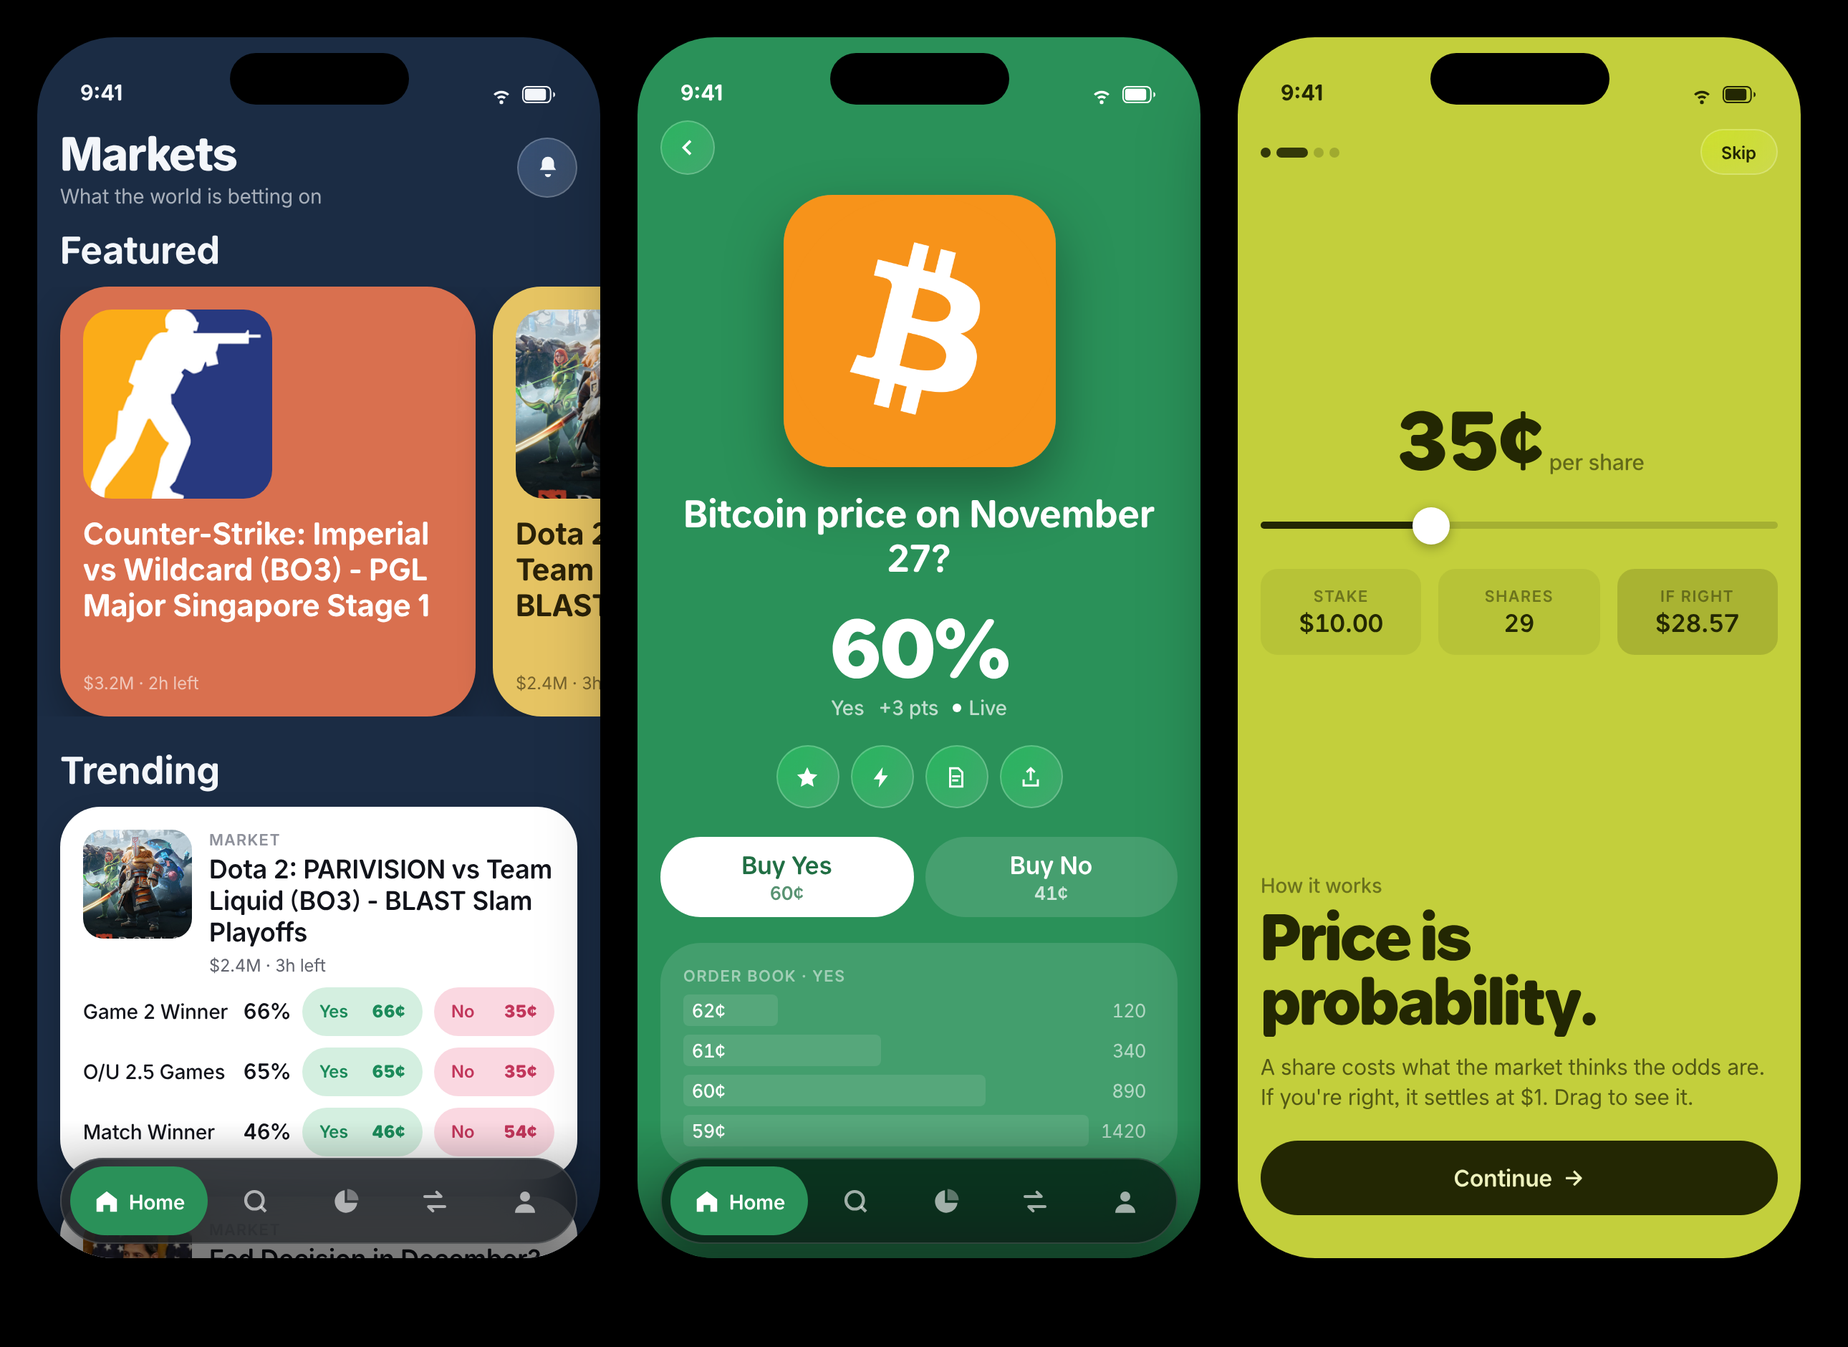
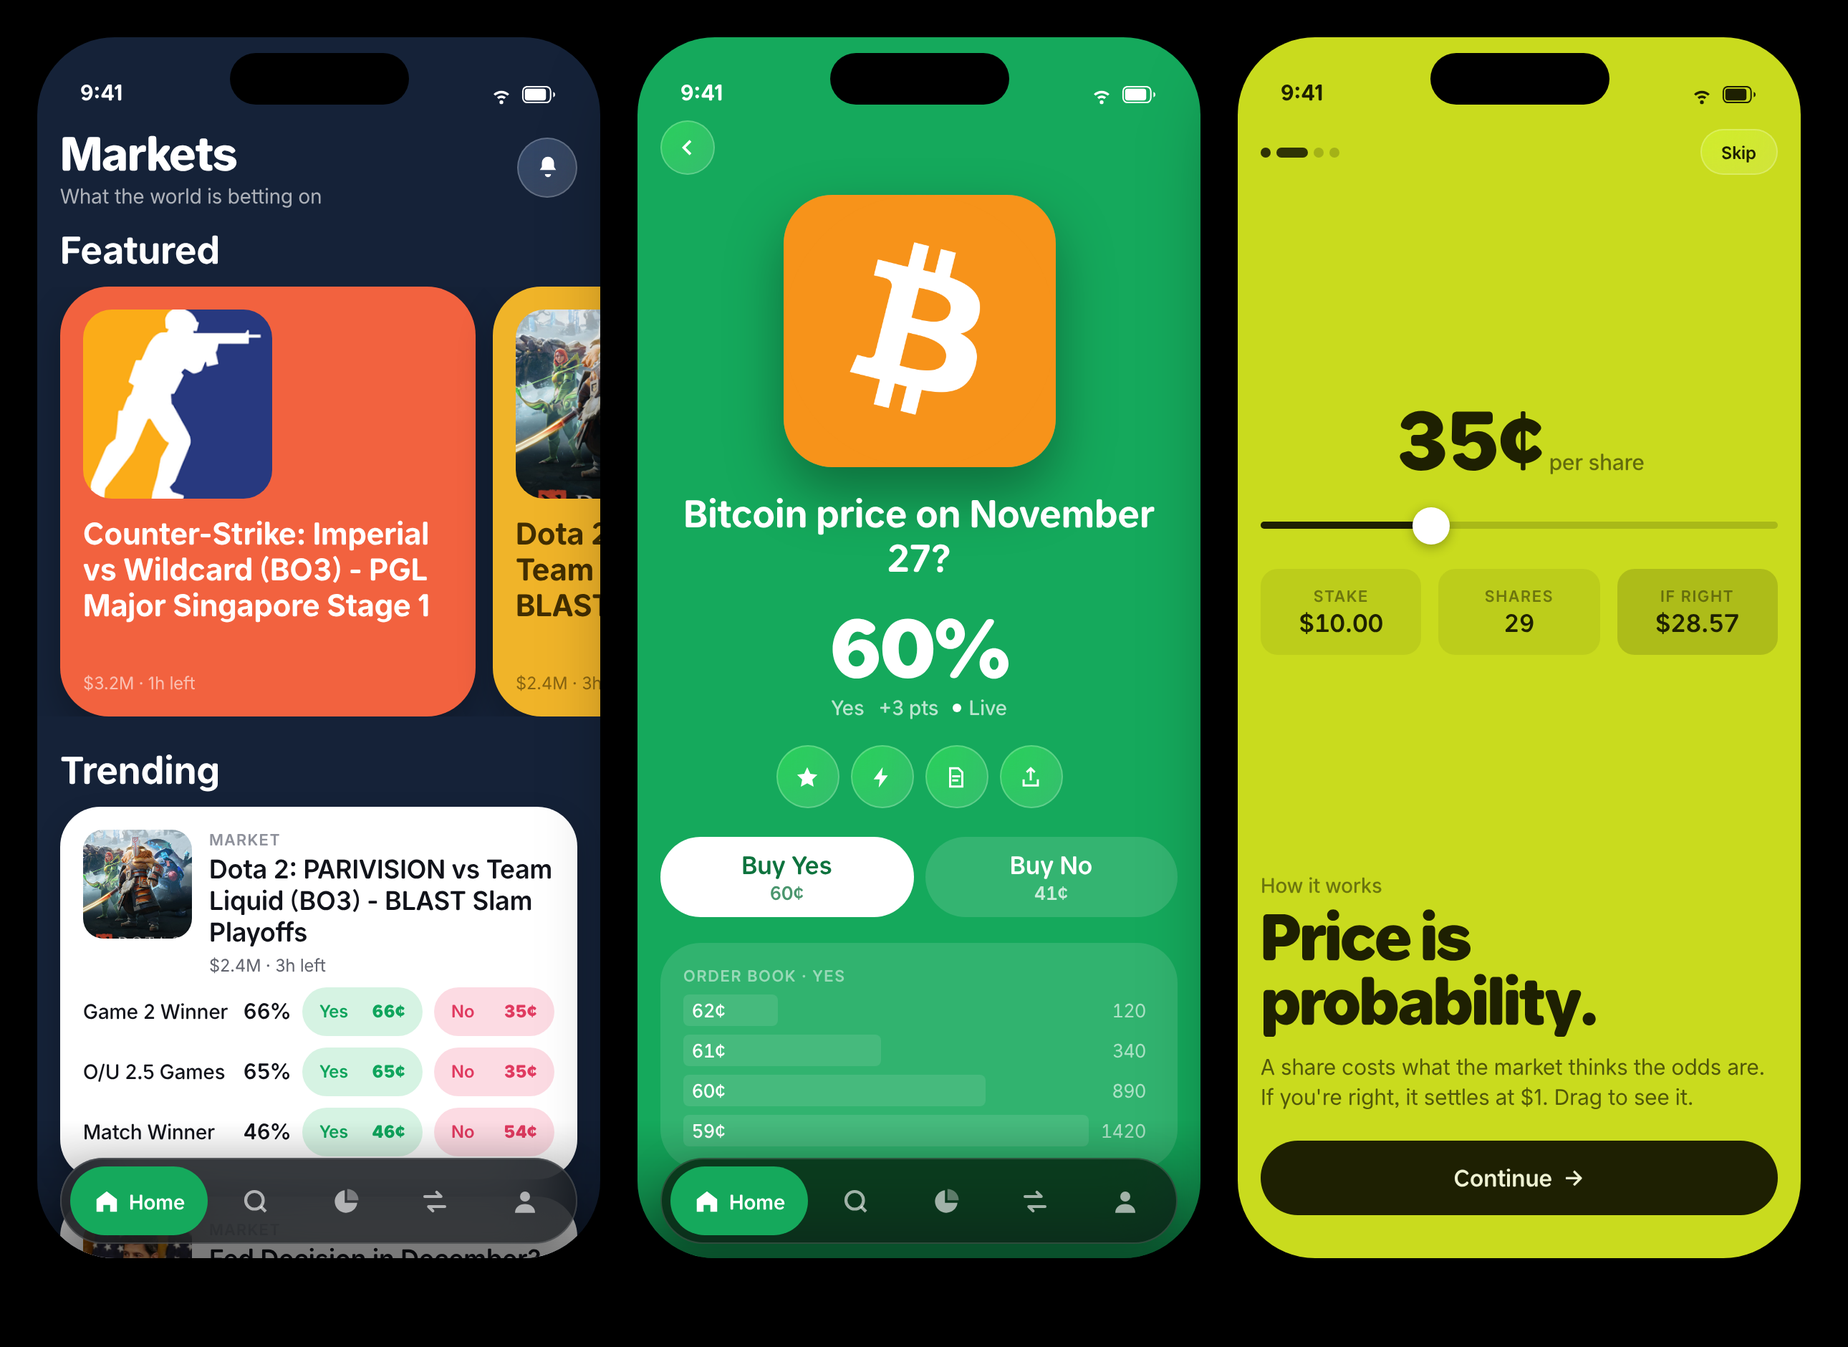
Clean the palette: saturated hues with the grey taken out
Three passes missed in three directions — pale tints washed out at
full-screen size, fully saturated ones read as electric, and desaturating
those to fix it made them dirty. Adding grey to a hue does not refine it.

Rendering the three candidates side by side as real cards settled it
rather than another round of argument. The hues stay pure now and only
lightness varies: every variant is generated from one base colour per theme
by shifting lightness in HLS, so the hue is identical across light and dark
and across the screen and card weights. `ink` is set by hand, because that
formula applied to an already-dark colour collapses it to near black with
no separation between the field and the cards on it.

The semantic Yes/No colours carried the same grey, which turned muddy
wherever they were drawn at partial opacity over a coloured field — most
visibly in the order book. Cleaned to match, and the depth bars are drawn
near-opaque so they read as themselves rather than as a mix with whatever
is behind them.

Supporting/render/palettes.js keeps the comparison runnable.

Claude-Session: https://claude.ai/code/session_01JJ56dMrdQg8BxcW8BaqA4A

diff --git a/PulseCore/Sources/PulseCore/Design/Palette.swift b/PulseCore/Sources/PulseCore/Design/Palette.swift
@@ -70,14 +70,16 @@ public enum Palette {
     // Yes and No keep the same hues everywhere — list rows, charts, the trade
     // sheet, the order book — so the mapping is learned once.
 
-    /// "Yes" — a grounded green, not a neon one.
-    public static let yes = Color.adaptive(light: "1B8A5A", dark: "4BC68E")
-    public static let yesSurface = Color.adaptive(light: "D4EFE0", dark: "16352A")
+    /// "Yes" — clean green, matched to the theme palette. The previous
+    /// value carried grey, which turned muddy wherever it was drawn at
+    /// partial opacity over a coloured field.
+    public static let yes = Color.adaptive(light: "0FA45C", dark: "3DD98B")
+    public static let yesSurface = Color.adaptive(light: "D6F3E3", dark: "0E3A26")
 
-    /// "No" — a warm rose that reads as the opposite of yes without being an
-    /// alarm colour. Pure red is reserved for destructive actions.
-    public static let no = Color.adaptive(light: "C2365B", dark: "F2869F")
-    public static let noSurface = Color.adaptive(light: "FAD8E1", dark: "3B2028")
+    /// "No" — a clean rose. Reads as the opposite of yes without being an
+    /// alarm colour; pure red stays reserved for destructive actions.
+    public static let no = Color.adaptive(light: "E03A60", dark: "FF7D9B")
+    public static let noSurface = Color.adaptive(light: "FCDBE3", dark: "401A26")
 
     /// Price movement. Matches yes/no so a rising probability and a yes
     /// position read as the same direction.
@@ -139,80 +141,84 @@ public enum Palette {
 
     /// The market themes.
     ///
-    /// Solid and muted, not pastel and not neon. Two earlier passes missed in
-    /// both directions: pale tints washed out at full-screen size, then fully
-    /// saturated hues read as electric and fought each other in a feed.
+    /// Clean saturated hues. Three earlier passes missed in three different
+    /// directions: pale tints washed out at full-screen size, fully
+    /// saturated ones read as electric, and desaturating those to fix it
+    /// just made them dirty — adding grey to a hue does not refine it.
     ///
-    /// These sit at roughly one perceptual weight — mid lightness, mid chroma
-    /// — which is what lets eight of them feel like one family rather than a
-    /// swatch book. Each is flat: no gradients anywhere in the palette.
+    /// These keep the hue pure and vary only lightness. Every variant below
+    /// is generated from one base colour per theme by shifting lightness in
+    /// HLS, so the hue is identical across light and dark and across the
+    /// screen and card weights. `ink` is set by hand, because the same
+    /// formula applied to an already-dark colour collapses it to near black
+    /// with no separation between the field and the cards on it.
     ///
-    /// `onField` is white on the deeper hues and near-black on lime and
-    /// butter, chosen per theme so contrast is deliberate rather than derived.
+    /// `onField` is white on the deep hues and a dark tint of the hue itself
+    /// on lime and butter, picked by luma rather than by eye.
     public static let themes: [Theme] = [
         Theme(
             id: "ink",
-            screen: .adaptive(light: "1B2C44", dark: "111C2B"),
-            field: .adaptive(light: "27405F", dark: "1B2C44"),
-            onField: .adaptive(light: "F3F6FA", dark: "F3F6FA"),
-            control: .adaptive(light: "F3F6FA", dark: "F3F6FA"),
-            onControl: .adaptive(light: "1B2C44", dark: "111C2B")
+            screen: .adaptive(light: "152238", dark: "0C1420"),
+            field: .adaptive(light: "1E3252", dark: "16233A"),
+            onField: .adaptive(light: "FFFFFF", dark: "F2F5FA"),
+            control: .adaptive(light: "FFFFFF", dark: "F2F5FA"),
+            onControl: .adaptive(light: "152238", dark: "0C1420")
         ),
         Theme(
             id: "green",
-            screen: .adaptive(light: "2A9159", dark: "1B6039"),
-            field: .adaptive(light: "34A567", dark: "217546"),
-            onField: .adaptive(light: "FFFFFF", dark: "E9F6EE"),
-            control: .adaptive(light: "FFFFFF", dark: "E9F6EE"),
-            onControl: .adaptive(light: "216F44", dark: "1B6039")
+            screen: .adaptive(light: "15A95C", dark: "0D5530"),
+            field: .adaptive(light: "18C46B", dark: "11703E"),
+            onField: .adaptive(light: "FFFFFF", dark: "A6E4C4"),
+            control: .adaptive(light: "FFFFFF", dark: "A6E4C4"),
+            onControl: .adaptive(light: "0E733E", dark: "0D5530")
         ),
         Theme(
             id: "lime",
-            screen: .adaptive(light: "C3CF3C", dark: "70791F"),
-            field: .adaptive(light: "D0DB5C", dark: "869029"),
-            onField: .adaptive(light: "232703", dark: "F3F7D4"),
-            control: .adaptive(light: "232703", dark: "F3F7D4"),
-            onControl: .adaptive(light: "EEF2BE", dark: "232703")
+            screen: .adaptive(light: "C9DB1E", dark: "7C8716"),
+            field: .adaptive(light: "D3E334", dark: "95A11A"),
+            onField: .adaptive(light: "1E2002", dark: "EEF1D4"),
+            control: .adaptive(light: "1E2002", dark: "EEF1D4"),
+            onControl: .adaptive(light: "EFF2D3", dark: "1E2002")
         ),
         Theme(
             id: "sky",
-            screen: .adaptive(light: "4C8FCB", dark: "2A5A86"),
-            field: .adaptive(light: "61A0D8", dark: "356E9F"),
-            onField: .adaptive(light: "FFFFFF", dark: "E8F1F9"),
-            control: .adaptive(light: "FFFFFF", dark: "E8F1F9"),
-            onControl: .adaptive(light: "2F6A9F", dark: "2A5A86")
+            screen: .adaptive(light: "2E7BE8", dark: "1651A4"),
+            field: .adaptive(light: "4A8CEB", dark: "1A5EBF"),
+            onField: .adaptive(light: "FFFFFF", dark: "E9F0F9"),
+            control: .adaptive(light: "FFFFFF", dark: "E9F0F9"),
+            onControl: .adaptive(light: "155DC3", dark: "1651A4")
         ),
         Theme(
             id: "lilac",
-            screen: .adaptive(light: "8073CE", dark: "4F4590"),
-            field: .adaptive(light: "9186D8", dark: "5F54A6"),
-            onField: .adaptive(light: "FFFFFF", dark: "EFEDFA"),
-            control: .adaptive(light: "FFFFFF", dark: "EFEDFA"),
-            onControl: .adaptive(light: "584CA3", dark: "4F4590")
+            screen: .adaptive(light: "7C5CE0", dark: "4B28B8"),
+            field: .adaptive(light: "9176E5", dark: "552ED1"),
+            onField: .adaptive(light: "FFFFFF", dark: "F6F4FB"),
+            control: .adaptive(light: "FFFFFF", dark: "F6F4FB"),
+            onControl: .adaptive(light: "5329D6", dark: "4B28B8")
         ),
         Theme(
             id: "coral",
-            screen: .adaptive(light: "D9704F", dark: "8E4330"),
-            field: .adaptive(light: "E28468", dark: "A5523C"),
-            onField: .adaptive(light: "FFFFFF", dark: "FBEAE4"),
-            control: .adaptive(light: "FFFFFF", dark: "FBEAE4"),
-            onControl: .adaptive(light: "A8523A", dark: "8E4330")
+            screen: .adaptive(light: "F2623F", dark: "C33512"),
+            field: .adaptive(light: "F4795C", dark: "DF3C14"),
+            onField: .adaptive(light: "FFFFFF", dark: "FCF4F3"),
+            control: .adaptive(light: "FFFFFF", dark: "FCF4F3"),
+            onControl: .adaptive(light: "E4390F", dark: "C33512")
         ),
         Theme(
             id: "butter",
-            screen: .adaptive(light: "E6C463", dark: "7D682A"),
-            field: .adaptive(light: "EDD183", dark: "937C36"),
-            onField: .adaptive(light: "2B2208", dark: "FBF3D9"),
-            control: .adaptive(light: "2B2208", dark: "FBF3D9"),
-            onControl: .adaptive(light: "F6EDCB", dark: "2B2208")
+            screen: .adaptive(light: "F0B429", dark: "AD7E10"),
+            field: .adaptive(light: "F2BE46", dark: "C99213"),
+            onField: .adaptive(light: "422E01", dark: "FAF6EB"),
+            control: .adaptive(light: "422E01", dark: "FAF6EB"),
+            onControl: .adaptive(light: "FBF6EA", dark: "422E01")
         ),
         Theme(
             id: "teal",
-            screen: .adaptive(light: "35959C", dark: "1D5F64"),
-            field: .adaptive(light: "43A8AF", dark: "27747A"),
-            onField: .adaptive(light: "FFFFFF", dark: "E3F3F4"),
-            control: .adaptive(light: "FFFFFF", dark: "E3F3F4"),
-            onControl: .adaptive(light: "277177", dark: "1D5F64")
+            screen: .adaptive(light: "10A3A8", dark: "0A5052"),
+            field: .adaptive(light: "13BEC4", dark: "0D6A6E"),
+            onField: .adaptive(light: "FFFFFF", dark: "9FE3E5"),
+            control: .adaptive(light: "FFFFFF", dark: "9FE3E5"),
+            onControl: .adaptive(light: "0B6D70", dark: "0A5052")
         )
     ]
 

diff --git a/Supporting/render/palettes.js b/Supporting/render/palettes.js
@@ -1,0 +1,75 @@
+const fs = require('fs');
+
+// Three candidate palettes, same eight roles, so the choice is about hue
+// treatment rather than layout.
+const sets = {
+  'A · Current — muted': {
+    ink:'1B2C44', green:'2A9159', lime:'C3CF3C', sky:'4C8FCB',
+    lilac:'8073CE', coral:'D9704F', butter:'E6C463', teal:'35959C',
+  },
+  'B · Clean — saturated, no grey': {
+    ink:'152238', green:'15A95C', lime:'C9DB1E', sky:'2E7BE8',
+    lilac:'7C5CE0', coral:'F2623F', butter:'F0B429', teal:'10A3A8',
+  },
+  'C · Deep — clean but darker': {
+    ink:'111C2E', green:'0E8A4A', lime:'A8BC14', sky:'2563C9',
+    lilac:'6446BE', coral:'D44A28', butter:'CE941A', teal:'0A8288',
+  },
+};
+
+// Dark ink needs light text; bright lime and butter need dark.
+const inkFor = hex => {
+  const r = parseInt(hex.slice(0,2),16), g = parseInt(hex.slice(2,4),16), b = parseInt(hex.slice(4,6),16);
+  // Rec. 709 luma — good enough to pick a text colour.
+  return (0.2126*r + 0.7152*g + 0.0722*b) > 150 ? '1A1A12' : 'FFFFFF';
+};
+
+const swatch = (name, hex) => `<div style="flex:1">
+  <div style="height:86px;border-radius:16px;background:#${hex};display:flex;align-items:flex-end;
+       padding:8px;color:#${inkFor(hex)};font-family:Allo;font-size:11px;font-weight:600">${name}</div>
+  <div style="font-family:Allo;font-size:10px;color:rgba(255,255,255,.4);padding:5px 2px 0">#${hex}</div>
+</div>`;
+
+// A card and a chip row in each palette, so the colours are judged doing
+// the job rather than as abstract squares.
+const sample = p => {
+  const i = inkFor(p.green);
+  return `<div style="display:flex;gap:12px;margin-top:14px">
+    <div style="flex:1;background:#${p.ink};border-radius:22px;padding:14px">
+      <div style="background:#fff;border-radius:16px;padding:12px">
+        <div style="font-family:Allo;font-size:10px;font-weight:600;letter-spacing:.7px;color:#8E919B">ESPORTS</div>
+        <div style="font-family:Allo;font-size:15px;font-weight:600;color:#11131A;margin-top:3px">Will BTC close above $100k?</div>
+        <div style="display:flex;gap:6px;margin-top:10px">
+          <div style="flex:1;height:32px;border-radius:99px;background:#D4EFE0;color:#1B8A5A;
+               display:flex;align-items:center;justify-content:space-between;padding:0 12px;
+               font-family:Allo;font-size:12px;font-weight:600"><span>Yes</span><span>66¢</span></div>
+          <div style="flex:1;height:32px;border-radius:99px;background:#FAD8E1;color:#C2365B;
+               display:flex;align-items:center;justify-content:space-between;padding:0 12px;
+               font-family:Allo;font-size:12px;font-weight:600"><span>No</span><span>35¢</span></div>
+        </div></div></div>
+    <div style="flex:1;background:#${p.green};border-radius:22px;padding:14px;color:#${i}">
+      <div style="font-family:Allo;font-size:34px;font-weight:900">66%</div>
+      <div style="font-family:Allo;font-size:12px;opacity:.75;margin-top:-2px">Yes · +3 pts · Live</div>
+      <div style="display:flex;gap:6px;margin-top:12px">
+        <div style="flex:1;height:34px;border-radius:99px;background:#${i};color:#${p.green};
+             display:flex;align-items:center;justify-content:center;font-family:Allo;font-size:13px;font-weight:600">Buy Yes</div>
+        <div style="flex:1;height:34px;border-radius:99px;background:#${i}29;
+             display:flex;align-items:center;justify-content:center;font-family:Allo;font-size:13px;font-weight:600">Buy No</div>
+      </div></div>
+    <div style="flex:1;background:#${p.lime};border-radius:22px;padding:14px;color:#${inkFor(p.lime)}">
+      <div style="font-family:Allo;font-size:11px;font-weight:600;opacity:.6">How it works</div>
+      <div style="font-family:Allo;font-size:26px;font-weight:900;line-height:1.05;margin-top:4px">Price is<br>probability.</div>
+    </div></div>`;
+};
+
+const block = ([name, p]) => `<div style="margin-bottom:34px">
+  <div style="font-family:Allo;font-size:15px;font-weight:700;color:#fff;margin-bottom:10px">${name}</div>
+  <div style="display:flex;gap:10px">${Object.entries(p).map(([k,v])=>swatch(k,v)).join('')}</div>
+  ${sample(p)}
+</div>`;
+
+fs.writeFileSync('palettes.html',
+  `<!doctype html><html><head><meta charset="utf-8"><link rel="stylesheet" href="shared.css"></head>
+   <body style="display:block;background:#0B0D11;padding:28px">
+   ${Object.entries(sets).map(block).join('')}</body></html>`);
+console.log('wrote palettes.html');

diff --git a/Supporting/render/build.js b/Supporting/render/build.js
@@ -57,7 +57,7 @@ function home() {
   const t = themes.ink;
   const ink = hex(t.onField);
   const CARD = '#FFFFFF', CINK = '#11131A', CSEC = '#61646E', CTER = '#8E919B';
-  const YES = '#1B8A5A', YESBG = '#D4EFE0', NO = '#C2365B', NOBG = '#FAD8E1';
+  const YES = '#0FA45C', YESBG = '#D6F3E3', NO = '#E03A60', NOBG = '#FCDBE3';
   const rows = data.slice(1, 5).map(e => {
     const legs = e.multi ? e.legs.map(l => `
       <div style="display:flex;align-items:center;gap:8px;margin-top:8px">
@@ -195,7 +195,7 @@ function trade() {
   const e = data.find(x => !x.multi) || data[3];
   const t = themeFor(String(e.title)); const ink = hex(t.onField);
   const price = 0.60, spend = 25, shares = spend / price, fee = 0.15;
-  const YES = '#1B8A5A', NO = '#C2365B';
+  const YES = '#0FA45C', NO = '#E03A60';
   const panel = (inner, pad) => `<div style="background:${ink}1f;border-radius:28px;padding:${pad||16}px">${inner}</div>`;
 
   return `<div class="phone" style="background:${hex(t.screen)}"><div class="island"></div>${status(ink)}
@@ -272,7 +272,7 @@ function trade() {
 function portfolio() {
   const t = themes.ink; const ink = hex(t.onField);
   const CARD='#FFFFFF', CINK='#11131A', CSEC='#61646E', CTER='#8E919B', CSEP='#E6E7EB';
-  const YES='#1B8A5A', YESBG='#D4EFE0', NO='#C2365B';
+  const YES='#0FA45C', YESBG='#D6F3E3', NO='#E03A60';
   const pos = [
     {t:'Bitcoin above $54,000 on November 27?', o:'Yes', v:3741.60, p:45.86, sh:3747, avg:.986, now:.998, c:'green', share:.52},
     {t:'Fed Decision in December?', o:'No', v:1280.00, p:-96.20, sh:1600, avg:.86, now:.80, c:'lime', share:.26},
@@ -285,7 +285,7 @@ function portfolio() {
       <div class="art" style="width:48px;height:48px;border-radius:12px;background:${hex(themes[q.c].screen)}"></div>
       <div style="flex:1;min-width:0">
         <div style="font-size:16px;font-weight:600;color:${CINK};line-height:1.25">${q.t}</div>
-        <div style="margin-top:6px"><span class="pill" style="background:${q.o==='Yes'?YESBG:'#FAD8E1'};color:${q.o==='Yes'?YES:NO};font-size:12px;padding:3px 10px">${q.o}</span></div>
+        <div style="margin-top:6px"><span class="pill" style="background:${q.o==='Yes'?YESBG:'#FCDBE3'};color:${q.o==='Yes'?YES:NO};font-size:12px;padding:3px 10px">${q.o}</span></div>
       </div>
       <div style="text-align:right">
         <div class="tnum" style="font-size:17px;font-weight:600;color:${CINK}">$${q.v.toFixed(2)}</div>

diff --git a/Supporting/render/onboarding.js b/Supporting/render/onboarding.js
@@ -76,17 +76,17 @@ const p2 = (() => { const t = themes.lime, price=.35, stake=10, sh=stake/price;
 const p3 = (() => { const t = themes.teal;
   const row=(pr,w,tint,right)=>`<div style="position:relative;height:22px;margin-bottom:5px">
     <div style="position:absolute;${right?'right':'left'}:0;top:0;bottom:0;width:${w*100}%;
-         border-radius:6px;background:${tint}8c"></div>
+         border-radius:6px;background:${tint}e0"></div>
     <div style="position:absolute;inset:0;display:flex;align-items:center;padding:0 10px;
          justify-content:${right?'flex-end':'flex-start'};font-size:13px;font-weight:600;
          color:${hex(t.onField)}">${cents(pr)}</div></div>`;
   return chrome(t, 2,
   `<div style="width:100%">
-     ${row(.66,.62,'#C2365B',1)}${row(.65,.38,'#C2365B',1)}${row(.64,.74,'#C2365B',1)}${row(.63,.50,'#C2365B',1)}
+     ${row(.66,.62,'#E03A60',1)}${row(.65,.38,'#E03A60',1)}${row(.64,.74,'#E03A60',1)}${row(.63,.50,'#E03A60',1)}
      <div style="display:flex;justify-content:space-between;padding:4px 0 7px">
        <span style="font-size:11px;font-weight:600;letter-spacing:1px;color:${hex(t.onField)}73">SPREAD</span>
        <span style="font-size:13px;font-weight:700;color:${hex(t.onField)}b3">1¢</span></div>
-     ${row(.62,.42,'#1B8A5A')}${row(.61,.66,'#1B8A5A')}${row(.60,.88,'#1B8A5A')}${row(.59,.55,'#1B8A5A')}
+     ${row(.62,.42,'#0FA45C')}${row(.61,.66,'#0FA45C')}${row(.60,.88,'#0FA45C')}${row(.59,.55,'#0FA45C')}
    </div>`,
   text(t,'Live','Books that\nmove every\nsecond.','Streaming prices, the full order book, and a chart going back to the day each market opened.')); })();
 

diff --git a/Pulse/Features/Onboarding/OnboardingIllustrations.swift b/Pulse/Features/Onboarding/OnboardingIllustrations.swift
@@ -291,7 +291,7 @@ struct LiveBookMark: View {
         return ZStack(alignment: alignment) {
             GeometryReader { geometry in
                 RoundedRectangle(cornerRadius: 6, style: .continuous)
-                    .fill(tint.opacity(0.55))
+                    .fill(tint.opacity(0.88))
                     .frame(width: max(8, geometry.size.width * depth))
                     .frame(maxWidth: .infinity, alignment: alignment)
             }
